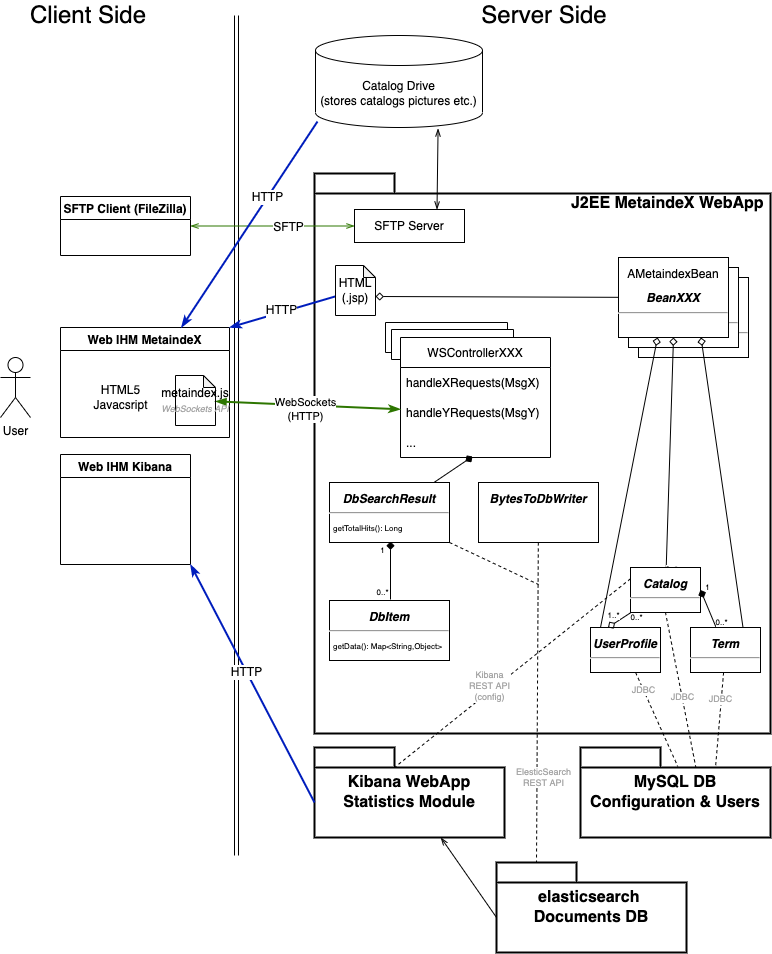
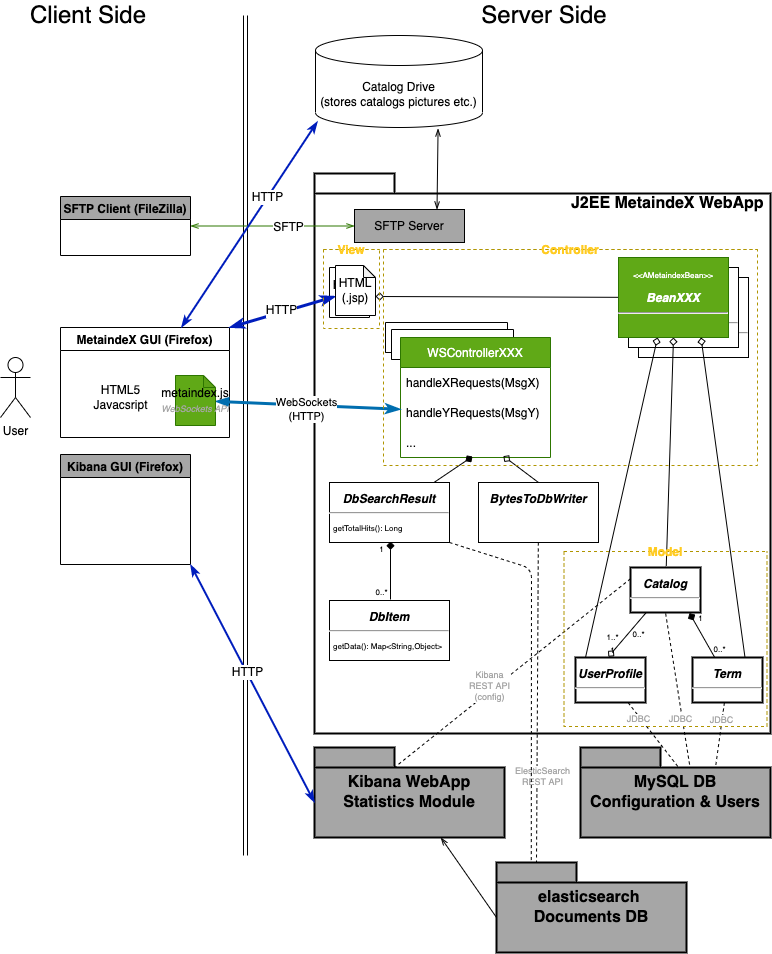
improving doc

diff --git a/README.md b/README.md
@@ -1,118 +1,153 @@
 # MetaindeX
 
-MetaindeX is a free open-source cataloger.
-It can be seen as aready-to-deploy application for managing small to heavy datasets.
-It supposes though that imported data is already properly organized
-(i.e. where contents are already clean and arranged by metadata) and does not offer embedded features to clean your data.
+MetaindeX is a free open-source and ready-to-deploy cataloger application: it allows you to create, edit, consult and search within small to heavy datasets.
+
+You can import data from Excel, ODF or CSV files, supposing that contents are clean (i.e. not ambiguous).
 
 You will typically want to use it if your data is too big for smooth run with Excel or if you want statistics and plots about its contents.
+
+![Screenshot 1](src/main/webapp/public/commons/media/img/screenshots/cards1.png?raw=true "Cards View screenshot")
+![Screenshot 2](src/main/webapp/public/commons/media/img/screenshots/stats-map.png?raw=true "Stats Map screenshot")
+![Screenshot 3](src/main/webapp/public/commons/media/img/screenshots/stats.png?raw=true "Stats Plots screenshot")
+
+To help you cleaning your data, you can first use [OpenRefine](https://openrefine.org) tool. If this is not suffiscient, you will probably need to go into some code. Few python tools are available [here](src/main/webapp/public/toolbox) which could help you in this task.
 
 ## Features
 
 MetaindeX can be install in 2 versions:
-    - Standalone edition: it is simpler to deploy and allows a single user to work with MetaindeX offline (no need to be connected to internet except for tutorial videos)
-    - Server edition: needs more configuration setup and is aiming to allow several users to work together on a central server, generally deployed on internet or intranet of your organization.
+* **Standalone edition:** it is simpler to deploy and allows a single user to work with MetaindeX offline (no need to be connected to internet except for tutorial videos)
+* **Server edition**: needs more configuration setup and is aiming to allow several users to work together on a central server, generally deployed on internet or intranet of your organization.
 
-Following Features are available in both Standalone and Server editions:
-    - Import data from CSV/Excel/OpenOffice
-    - Export data to CSV/Gephi
-    - Cards & Table Navigation Mode
-    - Lightweight client HTML5/javascript interface
-    - Powerful Search Engine (lucene)
-    - Robust to heavy contents (100k+ elements)
-    - Include raw data (ex:pictures) and external web links to documents
-    - Build connections between elements to generate graphs with Gephi
-    - Integrates Kibana (from ElasticStack) statistics module
-    - Easy interface customization to match your data model 
-    - Multi-language (English and French available for now)
-    - Automatic Quizz Generator
-    
-Server Edition offers following additional features:
-    - Manage users accounts and sessions
-    - Manage Quota
-    - Control users access rights to catalogs
+Available Features are synthetized in following table:
+
+|Feature|Standalone Edition|Server Edition|
+|-------|------------------|--------------|
+|Import data from CSV/Excel/OpenOffice|  :heavy_check_mark:  | :heavy_check_mark:  |
+|Export data to CSV/Gephi| :heavy_check_mark: | :heavy_check_mark: |
+|Cards & Table Navigation Mode| :heavy_check_mark: | :heavy_check_mark: |
+|Lightweight client HTML5/javascript interface| :heavy_check_mark: | :heavy_check_mark: |
+|Powerful Search Engine (lucene)| :heavy_check_mark: | :heavy_check_mark: |
+|Robust to heavy contents (100k+ elements)| :heavy_check_mark: | :heavy_check_mark: |
+|Include raw data (ex:pictures) and external web links to documents| :heavy_check_mark: | :heavy_check_mark: |
+|Build connections between elements to generate graphs with Gephi| :heavy_check_mark: | :heavy_check_mark: |
+|Integrates Kibana (from ElasticStack) statistics module| :heavy_check_mark: | :heavy_check_mark: |
+|Easy interface customization to match your data model | :heavy_check_mark: | :heavy_check_mark: |
+|Multi-language (English and French available for now)| :heavy_check_mark: | :heavy_check_mark: |
+|Automatic Quizz Generator| :heavy_check_mark: | :heavy_check_mark: |
+|Manage users accounts and sessions|  :x:  | :heavy_check_mark: |
+|Manage Quota|  :x:  | :heavy_check_mark: |
+|Control users access rights to catalogs|  :x:  | :heavy_check_mark: |
+|live chat with other users|  :x:  | :heavy_check_mark: |
+
+
 
 ## Startup Guide
 
-Ready-to-use tarballs are available hereunder.
-
 ### System Requirements
 
-    - MetaindeX can be installed either on Linux or Windows (WSL2) systems. 
-    - You'll need to have Docker v10.20.21 or greater installed on your system
-    - MetaindeX is based on powerful but quite demanding software components (mainly elasticsearch), 
-      so it is recommended to have a comfortable hardware configuration to run it smoothly.
+* MetaindeX can be installed either on Linux or Windows (WSL2) systems. 
+* You'll need to have Docker v10.20.21 or greater installed on your system
+* MetaindeX is based on powerful but quite demanding software components (mainly elasticsearch), so it is recommended to have a comfortable hardware configuration to run it smoothly.
 
 ### Installation Steps on W10
 
-    - install WSL OS "Debian"    
-	- Power shell
-	- wsl.exe -d Debian --install
-    - download and install latest Docker Desktop application (tested with version 4.16) https://www.docker.com/products/docker-desktop/
-    - ensure that Docker demo application runs properly
+* Open a "Power shell" and install WSL OS "Debian" :
+```
+$ wsl.exe -d Debian --install
+```
+* download and install latest [Docker Desktop application](https://www.docker.com/products/docker-desktop/) (tested with version 4.16) 
+* ensure that Docker demo application runs properly
             
-Then you can install and run application:
-    - download tarball of latest version (.zip)
-    - unzip it in your Documents/metaindex/app folder
+Then you can install and run MetaindeX application:
+* download tarball of latest version (.zip) (see tarballs section hereunder)    
+* unzip it in your Documents/metaindex/app folder
 
 #### Start Application on W10
-    - if not done yet, start docker Desktop application
-    - double-click on MetaindeX.START link (you'll have to restart your computer the first time)
+*  if not done yet, start docker Desktop application
+*  double-click on MetaindeX.START link (the first time you'll have to restart your computer)
 
 #### Start Application on Linux
-    - configure your system to have sufficient memory for elasticsearch: $ sysctl -w vm.max_map_count=262144
-    - run following command: $ cd ~/Documents/metaindex/app/<latest version folder> && ./metaindex.start.sh
+*  configure your system to have sufficient memory for elasticsearch: 
+```
+$ sysctl -w vm.max_map_count=262144
+```
+*  run following command: 
+```
+$ cd ~/Documents/metaindex/app/<latest version folder> && ./metaindex.start.sh
+```
 
 ## Building MetaindeX from sources
 
 Building metaindex project has only been tested under Linux environment:
-    - open project under Eclipse
-    - export project as a WAR file into <prj_root>/deploy/mxwebapp/metaindex.war
-    - run building script: $ cd <prj_root>/deploy && ./tools/devtools/mx_tarball_build.sh
+*  open project under Eclipse
+*  export project as a WAR file into <prj_root>/deploy/mxwebapp/metaindex.war
+*  run building script: 
+```
+$ cd <prj_root>/deploy && ./tools/devtools/mx_tarball_build.sh
+```
 
 NOTE: for Server edition, you'll need to do following additional things before biulding tarballs:
-    - create valid file <prj_root>/deploy/ssl/mxwebapp.server/metaindex.p12
-    - create valid file <prj_root>/deploy/ssl/mxproxy.server/metaindex.crt
-    - create valid file <prj_root>/deploy/ssl/mxproxy.server/metaindex.key
-    - create a <prj_root>/deploy/tools/decode_secrets.sh script displaying following infos on stdout:
+*  create valid file <prj_root>/deploy/ssl/mxwebapp.server/metaindex.p12
+*  create valid file <prj_root>/deploy/ssl/mxproxy.server/metaindex.crt
+*  create valid file <prj_root>/deploy/ssl/mxproxy.server/metaindex.key
+*  create a <prj_root>/deploy/tools/decode_secrets.sh script displaying following infos on stdout (default values are available in deploy/.env.standalone file):
+```
+# p12 file password
+MX_TARGET_KEYSTORE_PASSWORD=xxx
+# password to be used for 'metaindex' admin user in elasticsearch
+ELK_METAINDEX_PASSWD=xxx
+# password to be used for 'kibana' user in elasticsearch
+ELK_KIBANA_PASSWORD=xxx
+# password to be used for 'elastic' super user in elasticsearch
+ELK_ELASTIC_PASSWORD=xxx
+# password to be used for 'mxsql' user in mysql DB
+MYSQL_PASSWORD=xxx
+# password to be used for 'root' user in mysql DB
+MYSQL_ROOT_PASSWORD=xxx
+# to receive email notifications, you must have a gmail account configured for being used by a third-party app'
+MX_GOOGLE_MAILER_USER=xxx
+# corresponding gmail password (API app password, not your personnal human password)
+MX_GOOGLE_MAILER_PASSWD=xxx
+# email address to be used to send metaindex notifications
+MX_ADMIN_MAILER_RECIPIENT=xxx
+# payement API login (only paypal interface implemented for now)
+MX_PAYMENT_LOGIN=xxx
+# payement API password
+MX_PAYMENT_PASSWORD=xxx
+```
 
-        MX_TARGET_KEYSTORE_PASSWORD=xxx
-        ELK_METAINDEX_PASSWD=xxx
-        ELK_KIBANA_PASSWORD=xxx
-        ELK_ELASTIC_PASSWORD=xxx
-        MYSQL_PASSWORD=xxx
-        MYSQL_ROOT_PASSWORD=xxx
-        MX_GOOGLE_MAILER_USER=xxx
-        MX_GOOGLE_MAILER_PASSWD=xxx
-        MX_ADMIN_MAILER_RECIPIENT=xxx
-        MX_PAYMENT_LOGIN=xxx
-        MX_PAYMENT_PASSWORD=xxx
-    
-NOTE2: Secrets management needs still some improvements, and might change in upcoming versions.
+Management of thoses secrets still needs some improvements, and might change in upcoming versions.
+
+## Taeballs
+
+**Standalone Edition**
+* LATEST: [MetaindeX Standalone v3.0.2 (.zip)](https://imagingyou.me/metaindex/metaindex-3.0.2.RELEASE.standalone.zip) SHA256:  
+
+**Server Edition**
+* LATEST: [MetaindeX Standalone v3.0.2 (.tgz)](https://imagingyou.me/metaindex/metaindex-3.0.2.RELEASE.server.tgz) SHA256:  
 
 ## Architecture Overview
 
-MetaindeX app is a JE22 WebServer application, with following components:
+MetaindeX app is a JE22 WebServer application with a basic MVC approach, synthetized in following figure:
 
-![Architeture Overview](doc/visuals/archi.png?raw=true "MetaindeX Architecture Overview")
+![Architeture Overview Figure](doc/visuals/archi.png?raw=true "MetaindeX Architecture Overview")
 
 Client Side:
-    - HTML5/javascript (jsp) pages
-    - Colors styles based on 'less' processing
-    - Live communication with server based on websockets 
-    - Integrated Connection to Kibana tool (Elasticstack)
-    - SFTP server to access catalogs' drive (mainly useful for server edition, since for standalone edition files can directly be accessed on local file system)
+*  HTML5/javascript pages, :x: special framework used (might be part of a future evolution)
+*  Colors styling based on 'less' processing
+*  Live communication with server based on websockets 
+*  Integrated Connection to Kibana tool (Elasticstack)
+*  SFTP server to access catalogs' drive (mainly useful for server edition, since for standalone edition files can directly be accessed on local file system)
 
 Server Side:
-    - Spring framework for access control
-    - MySQL database to store users personnal data and catalogs configuration
-    - Elasticsearch to store catalogs contents
-    - Integrated Kibana app for statistics as a self-service
-    - Apache sshd server for SFTP access to catalog drive
-    
+*  Spring framework for access control
+*  MySQL database to store users personnal data and catalogs configuration
+*  Elasticsearch to store catalogs contents
+*  Integrated Kibana app for statistics as a self-service
+*  Apache sshd server for SFTP access to catalog drive
 
 ## References
 
 MetaindeX functionalities and usage has been described through several academical publications:
-    - TBC
+*  TBC
 
